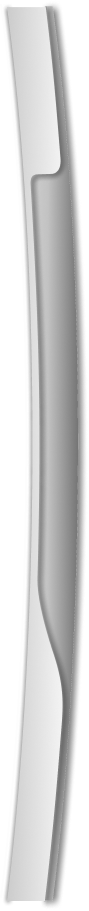
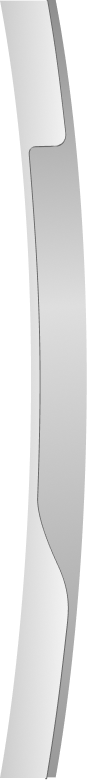
Blade Redesign

diff --git a/src/xbox_dashboard/components/NavBladesContainer.js b/src/xbox_dashboard/components/NavBladesContainer.js
@@ -43,7 +43,7 @@ const NavBladesContainer = (props) => {
 
         window.addEventListener("resize", updateBlade);
 
-        updateBlade();
+        // updateBlade();
 
         return ()=> {
             window.removeEventListener("resize", updateBlade);
@@ -57,14 +57,16 @@ const NavBladesContainer = (props) => {
             <div className={bladeStyles.bladeContainer} ref={bladeContainerRef}>
                 <div className={bladeStyles.centeredContent}>
                 <div className={bladeStyles.leftGroup}>
+
+
                     <div id={bladeStyles["marketplaceBlade-left"]} className={`${bladeStyles.blade} `}  >
                         <div className={`${bladeStyles.bladeGroup}`}>
-                            <div className={`${bladeStyles.bladeImgContainer} ${current_context_index === 0 ? bladeStyles.marketplaceActiveBlade : transitionStyles.instantTransparent}`} ref={bladeRef}> 
+                            <div id={bladeStyles["marketplaceBladeLeftActive"]} className={`${bladeStyles.bladeImgContainer} ${current_context_index === 0 ? bladeStyles.marketplaceActiveBlade : transitionStyles.instantTransparent}`} ref={bladeRef}> 
                             </div>
                             <h3 className={`${bladeStyles.bladeTitle} ${current_context_index === 0 ? '' : transitionStyles.instantTransparent}`} ref={bladeRef}>marketplace</h3>
 
 
-                            <div className={`${bladeStyles.bladeImgContainer} ${current_context_index !== 0 ? bladeStyles.leftBladeInactive : transitionStyles.instantTransparent}`} ref={bladeRef}> 
+                            <div id={bladeStyles["marketplaceBladeLeftInactive"]} className={`${bladeStyles.bladeImgContainer} ${current_context_index !== 0 ? bladeStyles.leftBladeInactive : transitionStyles.instantTransparent}`} ref={bladeRef}> 
                             </div>
 
                         </div>
@@ -72,12 +74,12 @@ const NavBladesContainer = (props) => {
 
                     <div id={bladeStyles["xboxliveBlade-left"]} className={`${bladeStyles.blade} `} >
                         <div className={`${bladeStyles.bladeGroup}`}>
-                            <div className={`${bladeStyles.bladeImgContainer} ${current_context_index < 1 ? transitionStyles.instantTransparent :  bladeStyles.leftBladeInactive}`} ref={bladeRef}>
+                            <div id={bladeStyles["xboxliveBladeLeftInactive"]} className={`${bladeStyles.bladeImgContainer} ${current_context_index <= 1 ? transitionStyles.instantTransparent :  bladeStyles.leftBladeInactive}`} ref={bladeRef}>
                             </div>
                             <h3 className={`${bladeStyles.bladeTitle} ${current_context_index !== 1 ? transitionStyles.instantTransparent :  ''}`} ref={bladeRef}>xbox live</h3>
 
 
-                            <div className={`${bladeStyles.bladeImgContainer} ${current_context_index === 1 ? bladeStyles.xboxliveActiveBlade : transitionStyles.instantTransparent}`} ref={bladeRef}>
+                            <div id={bladeStyles["xboxliveBladeLeftActive"]} className={`${bladeStyles.bladeImgContainer} ${current_context_index === 1 ? bladeStyles.xboxliveActiveBlade : transitionStyles.instantTransparent}`} ref={bladeRef}>
                             </div>
 
                         </div>
@@ -85,11 +87,11 @@ const NavBladesContainer = (props) => {
 
                     <div id={bladeStyles["gamesBlade-left"]} className={`${bladeStyles.blade} `} >
                         <div className={`${bladeStyles.bladeGroup}`}>
-                            <div className={`${bladeStyles.bladeImgContainer} ${current_context_index < 2 ? transitionStyles.instantTransparent : bladeStyles.leftBladeInactive}`} ref={bladeRef}>
+                            <div id={bladeStyles["gamesBladeLeftInactive"]}  className={`${bladeStyles.bladeImgContainer} ${current_context_index <= 2 ? transitionStyles.instantTransparent : bladeStyles.leftBladeInactive}`} ref={bladeRef}>
                             </div>
                             <h3 className={`${bladeStyles.bladeTitle} ${current_context_index !== 2 ? transitionStyles.instantTransparent :  ''}`} ref={bladeRef}>games</h3>
                             
-                            <div className={`${bladeStyles.bladeImgContainer} ${current_context_index === 2 ? bladeStyles.gamesActiveBlade : transitionStyles.instantTransparent}`} ref={bladeRef}>
+                            <div id={bladeStyles["gamesBladeLeftActive"]}  className={`${bladeStyles.bladeImgContainer} ${current_context_index === 2 ? bladeStyles.gamesActiveBlade : transitionStyles.instantTransparent}`} ref={bladeRef}>
                             </div>
 
                         </div>
@@ -97,11 +99,11 @@ const NavBladesContainer = (props) => {
 
                     <div id={bladeStyles["mediaBlade-left"]} className={`${bladeStyles.blade} `} >
                         <div className={`${bladeStyles.bladeGroup}`}>
-                            <div className={`${bladeStyles.bladeImgContainer} ${current_context_index < 3 ? transitionStyles.instantTransparent : bladeStyles.leftBladeInactive}`} ref={bladeRef}>
+                            <div id={bladeStyles["mediaBladeLeftInactive"]} className={`${bladeStyles.bladeImgContainer} ${current_context_index <= 3 ? transitionStyles.instantTransparent : bladeStyles.leftBladeInactive}`} ref={bladeRef}>
                             </div>
                             <h3 className={`${bladeStyles.bladeTitle} ${current_context_index !== 3 ? transitionStyles.instantTransparent :  ''}`} ref={bladeRef}>media</h3>
 
-                            <div className={`${bladeStyles.bladeImgContainer} ${current_context_index === 3 ? bladeStyles.mediaActiveBlade : transitionStyles.instantTransparent}`} ref={bladeRef}>
+                            <div id={bladeStyles["mediaBladeLeftActive"]} className={`${bladeStyles.bladeImgContainer} ${current_context_index === 3 ? bladeStyles.mediaActiveBlade : transitionStyles.instantTransparent}`} ref={bladeRef}>
                             </div>
 
                         </div>
@@ -109,10 +111,10 @@ const NavBladesContainer = (props) => {
 
                     <div id={bladeStyles["systemBlade-left"]} className={`${bladeStyles.blade} `} >
                         <div className={`${bladeStyles.bladeGroup}`}>
-                            <div className={`${bladeStyles.bladeImgContainer} ${current_context_index < 4 ? transitionStyles.instantTransparent : bladeStyles.leftBladeInactive}`} ref={bladeRef}>
+                            <div className={`${bladeStyles.bladeImgContainer} ${current_context_index <= 4 ? transitionStyles.instantTransparent : bladeStyles.leftBladeInactive}`} ref={bladeRef}>
                             </div>
                             <h3 className={`${bladeStyles.bladeTitle} ${current_context_index !== 4 ? transitionStyles.instantTransparent :  ''}`} ref={bladeRef}>system</h3>
-                            <div className={`${bladeStyles.bladeImgContainer} ${current_context_index === 4 ? bladeStyles.systemActiveBlade : transitionStyles.instantTransparent}`} ref={bladeRef}>
+                            <div id={bladeStyles["systemBladeLeftActive"]} className={`${bladeStyles.bladeImgContainer} ${current_context_index === 4 ? bladeStyles.systemActiveBlade : transitionStyles.instantTransparent}`} ref={bladeRef}>
                             </div>
 
                         </div>

diff --git a/src/dashboard_styles/BladeStyling.module.css b/src/dashboard_styles/BladeStyling.module.css
@@ -19,7 +19,7 @@
     height: calc(var(--container-height));
     left: 50%;
     transform: translateX(-50%);
-    /* overflow: hidden; */
+    overflow: hidden;
 }
 
 .centeredContent {
@@ -29,28 +29,20 @@
     transform: translate(-50%, -50%);
     left: 50%;
     top: 50%;
-    /* background-color: lightseagreen; */
 }
 
 .blade {
     position: absolute;
-    /* left: -90px; */
-    /* width: 30px; */
-    /* width: var(--blade-size); */
     height: 100%;
-    /* background-color: greenyellow; */
-    /* border: 1px solid black; */
     transition: transform 0.6s ease-in;
-    /* pointer-events: none; */
     overflow: visible;
-    /* left: calc(((100vh) * (-1/9))); */
 }
 
 
 .bladeGroup {
     position: relative;
-    height: 100%;
-    width: 35px;
+    height: calc(100% + 20px);
+    width: 100px;
     left: 45px;
     /* background-color: red; */
     overflow: visible;
@@ -59,7 +51,7 @@
 
 .bladeImgContainer {
     position: absolute;
-    height: calc( 100% + 40px);
+    height: inherit;
     top: -20px;
     left: 30px;
     width: 100px;
@@ -78,72 +70,135 @@
     cursor: pointer;
 }
 
+#marketplaceBlade-left{}
+
+#xboxliveBlade-left{}
+
 .marketplaceActiveBlade {
-    background-image: url("../assets/images/new_marketplace_blade.png")
+    background-image: url("../assets/images/marketplace_active_blade.png");
+    background-size: cover;
 }
 
 .xboxliveActiveBlade {
-    background-image: url("../assets/images/xboxlive_active_blade.png")
+    background-image: url("../assets/images/xboxlive_active_blade.png");
+    background-size: cover;
 }
 
 .gamesActiveBlade {
     background-image: url("../assets/images/games_active_blade.png");
+    background-size: cover;
 }
 
 .mediaActiveBlade {
     background-image: url("../assets/images/media_active_blade.png");
+    background-size: cover;
 }
 
 .systemActiveBlade {
     background-image: url("../assets/images/system_active_blade.png");
+    background-size: cover;
 }
 
 
 .rightBladeInactive {
     background-image: url("../assets/images/inactive_blade_right.png");
+    /* background-size: cover; */
 }
 
 .leftBladeInactive {
-    background-image: url("../assets/images/inactive_blade_left_redesign.png");
+    background-image: url("../assets/images/inactive_blade_left.png");
+    /* background-size: cover; */
+}
+
+#marketplaceBladeLeftActive {
+    transform: translateX(-60px);
+}
+
+#marketplaceBladeLeftInactive {
+    transform: translateX(-55px);
+}
+
+#xboxliveBladeLeftActive {
+    transform: translateX(-7px);
+}
+
+#xboxliveBladeLeftInactive {
+    transform: translateX(-0px);
+}
+
+#gamesBladeLeftActive {
+    transform: translateX(47px);
+}
+
+#gamesBladeLeftInactive {
+    transform: translateX(55px);
+}
+
+#mediaBladeLeftActive {
+    transform: translateX(102px);
+}
+
+#mediaBladeLeftInactive {
+    transform: translateX(110px);
+}
+
+#systemBladeLeftActive {
+    transform: translateX(157px);
 }
 
 .leftGroup {
     position: absolute;
     height: inherit;
     left: -170px;
+
+    /* .blade:nth-child(1){
+        transform: translateX(-28px);
+    }
+
+    .blade:nth-child(2){
+        transform: translateX(25px);
+    }
+    
+    .blade:nth-child(3){
+        transform: translateX(76px);
+    }
+    
+    .blade:nth-child(4) {
+        transform: translateX(117px);
+    }
+    
+    .blade:nth-child(5) {
+        transform: translateX(158px);
+    } */
 }
 
 .rightGroup {
     position: absolute;
     height: inherit;
     left: calc(100% - 305px);
-    /* left: 300px; */
+
+    .blade:nth-child(1){
+        transform: translateX(0px);
+    }
+
+    .blade:nth-child(2){
+        transform: translateX(57px);
+    }
+    
+    .blade:nth-child(3){
+        transform: translateX(114px);
+    }
+    
+    .blade:nth-child(4) {
+        transform: translateX(171px);
+    }
+    
+    .blade:nth-child(5) {
+        transform: translateX(160px);
+    }
 }
 
-/* .blade:nth-child(1) {
-    transform: translateX(calc(((100vh) * (1/(22)))));
-} */
 
-
-.blade:nth-child(2){
-    /* transform: translateX(calc(((100vh) * (1/(22))))); */
-    transform: translateX(40px);
-}
-
-.blade:nth-child(3){
-    /* transform: translateX(calc(((100vh) * (1/(10.8))))); */
-    transform: translateX(80px);
-}
-
-.blade:nth-child(4) {
-    /* transform: translateX(calc(((100vh) * (1/7.2)))); */
-    transform: translateX(120px);
-}
-
-.blade:nth-child(5) {
-    /* transform: translateX(calc(((100vh) * (1/5.3)))); */
-    transform: translateX(160px);
-}
 
 
 
@@ -193,7 +248,7 @@ path {
     z-index: -1;
     width: inherit;
     min-width: auto;
-    max-width: 65px;
+    max-width: 86px;
     height: inherit;
     left: 0;
     fill: url("#paint0_radial_216_168");

diff --git a/src/custom_hooks/useDashboardBladeAnimation.js b/src/custom_hooks/useDashboardBladeAnimation.js
@@ -33,8 +33,8 @@ export default function useDashboardBladeAnimation() {
     // GSAP Timelines
     
     initializeRef.current = gsap.timeline().to(mountRef.current, { opacity: 1, duration: 0.2 }).pause();
-    shiftLeftTransition.current = gsap.timeline().to(mountRef.current, { x: '+=40px', duration: 0.3 }).pause();
-    shiftRightTransition.current = gsap.timeline().to(mountRef.current, { x: '-=40px', duration: 0.3 }).pause();
+    shiftLeftTransition.current = gsap.timeline().to(mountRef.current, { x: '+=55px', duration: 0.3 }).pause();
+    shiftRightTransition.current = gsap.timeline().to(mountRef.current, { x: '-=55px', duration: 0.3 }).pause();
   };
   initializeTimeline();
 

diff --git a/src/dashboard_styles/Dashboard.module.css b/src/dashboard_styles/Dashboard.module.css
@@ -38,7 +38,7 @@
     height: inherit;
     transform: translate(-50%, -50%);
     z-index: 10;
-    overflow: hidden;
+    /* overflow: hidden; */
     pointer-events: none;
 }
 
@@ -1156,10 +1156,11 @@
     position: absolute;
     display: flex;
     flex-direction: column;
-    width: 850px;
+    width: 870px;
     height: 560px;
     left: 80px;
     top: 60px;
+    margin-right: 20px;
 
     opacity: 0;
     display: none;
@@ -1206,6 +1207,7 @@
 
 .articleParagraph {
     margin-top: 5px;
+    padding-right:5px;
     font-size: calc(var(--text-body-size));
 }
 

diff --git a/src/index.css b/src/index.css
@@ -16,7 +16,7 @@
 }
 
 :root {
-  --blade-size: 90px;
+  --blade-size: 86px;
   --container-width: 1020px;
   --container-height: 770px;
   --border_radius: 10px;
@@ -36,6 +36,7 @@
 
   /*  Colors */
   --dashtext-color: rgba(15, 15, 15, 0.9);
+  --white-text: white;
 }
 
 * {
